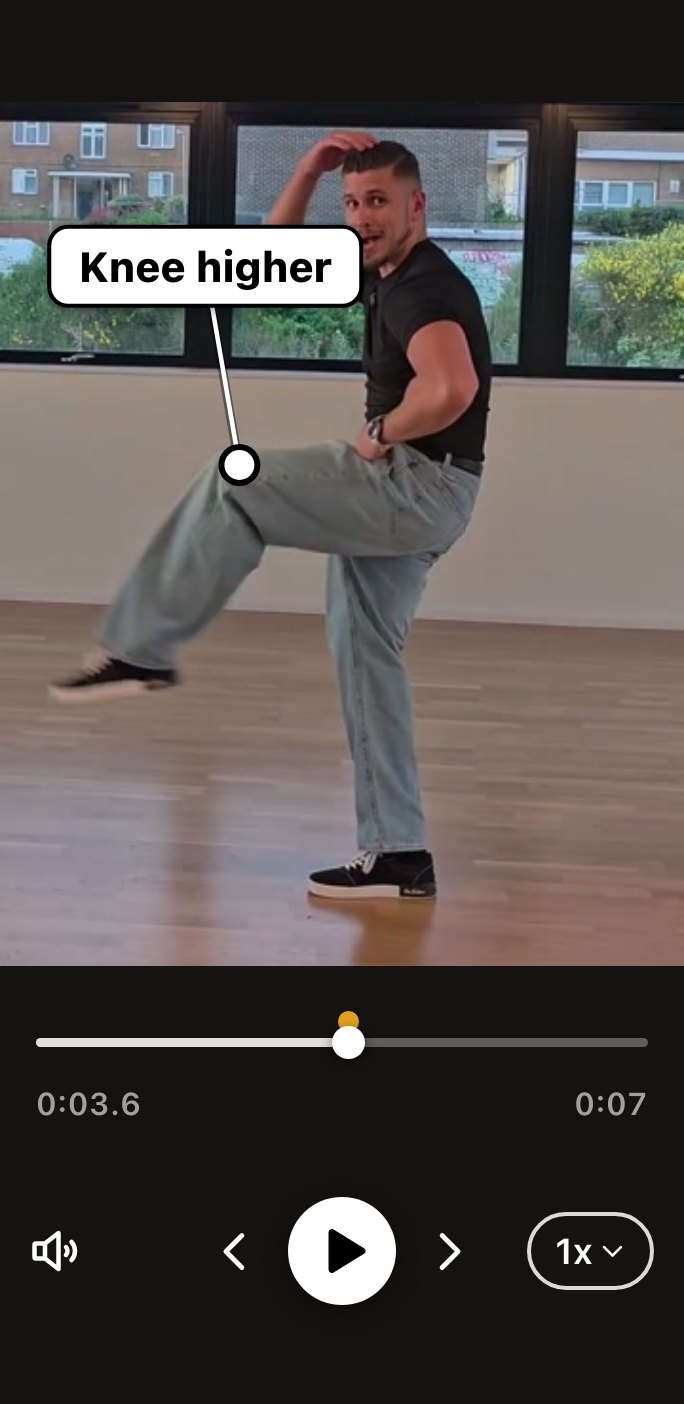
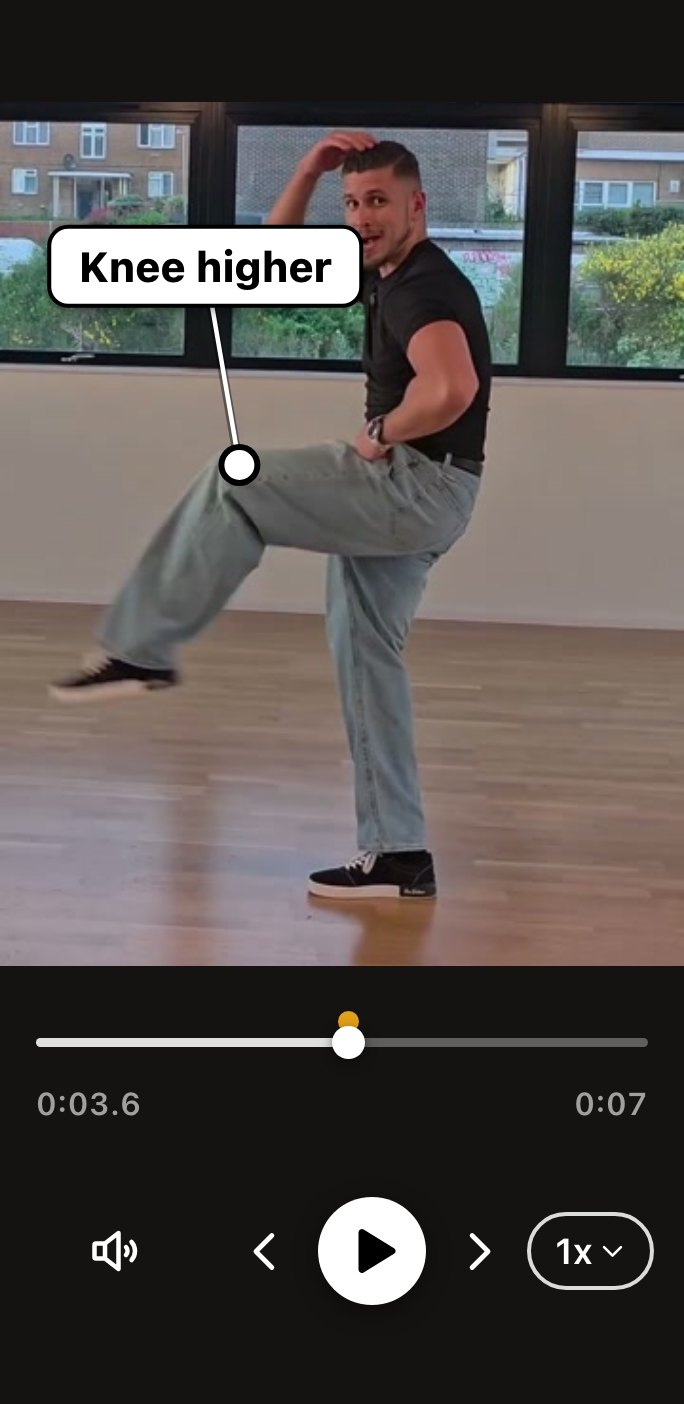
Landing: hero highlight under the baseline; Speed sheet for tools tile 1; mute button moved in on the player row

Changed region(s): [[0.3377, 0.8269, 0.7061, 0.9494], [0.0307, 0.8575, 0.2149, 0.9188]]

diff --git a/index.html b/index.html
@@ -20,7 +20,7 @@
   <meta name="twitter:description" content="Master that move from Instagram, workshops, privates or classes. Save it, loop the part you can't get, and see yourself get better. Free on iPhone and Android.">
   <meta name="twitter:image" content="https://dancejournal.app/assets/social/og-card.png">
   <meta name="theme-color" content="#FAFAFA">
-  <link rel="stylesheet" href="assets/landing.css?v=91">
+  <link rel="stylesheet" href="assets/landing.css?v=92">
   <!-- Cloudflare Web Analytics -->
   <script defer src='https://static.cloudflareinsights.com/beacon.min.js' data-cf-beacon='{"token": "11651d9885e34755b7715f68c4ef9fc0"}'></script>
   <!-- End Cloudflare Web Analytics -->
@@ -296,7 +296,7 @@
           <div class="dj-phone">
             <div class="dj-phone-notch"></div>
             <div class="dj-phone-screen">
-              <img src="assets/shots/tools-speed.jpg?v=2" alt="The player slowed to 0.5x, with the speed button, the frame-step arrows and the play button under the timeline">
+              <img src="assets/shots/tools-speed.jpg?v=3" alt="The Speed sheet set to 0.5x, with preset buttons for 0.25x, 0.5x, 0.75x and 1x and a dial to fine-tune the speed">
             </div>
           </div>
           <h3>Slow it down, frame by frame</h3>
@@ -326,7 +326,7 @@
           <div class="dj-phone">
             <div class="dj-phone-notch"></div>
             <div class="dj-phone-screen">
-              <img src="assets/shots/tools-note.jpg?v=2" alt="A note reading Knee higher, with a pointer to the dancer's raised knee, pinned to one moment on the timeline">
+              <img src="assets/shots/tools-note.jpg?v=3" alt="A note reading Knee higher, with a pointer to the dancer's raised knee, pinned to one moment on the timeline">
             </div>
           </div>
           <h3>Take notes on the video</h3>

diff --git a/assets/landing.css b/assets/landing.css
@@ -238,7 +238,10 @@ a { color: inherit; }
   display: block; height: 1.12em; line-height: 1.12em;
   font-weight: inherit; white-space: nowrap;
   padding: 0 .06em;
-  background: linear-gradient(transparent 58%, #F7D27A 58%, #F7D27A 88%, transparent 88%);
+  /* A thin band under the baseline, not a stripe through the letters; descenders (p, g) overprint it.
+     overflow clips the ~1px of descender that bleeds into the box below (a stray dash under line 1). */
+  overflow: hidden;
+  background: linear-gradient(transparent 82%, #F7D27A 82%, #F7D27A 96%, transparent 96%);
 }
 @keyframes dz-rot {
   0%, 16%  { transform: translateY(0); }
@@ -491,6 +494,7 @@ a { color: inherit; }
 /* The transport row: mute left, ‹ ▶ › centred, the speed pill right. */
 .dz-tp { flex: none; display: flex; align-items: center; margin: 10px 12px 0; color: #fff; }
 .dz-tp .l, .dz-tp .r { flex: 1; display: flex; align-items: center; }
+.dz-tp .l { padding-left: 20px; } /* mute sits in from the edge so the row reads balanced against the speed pill */
 .dz-tp .r { justify-content: flex-end; }
 .dz-tp .c { display: flex; align-items: center; gap: 12px; }
 .dz-tp .l .dz-ic { width: 16px; height: 16px; }
